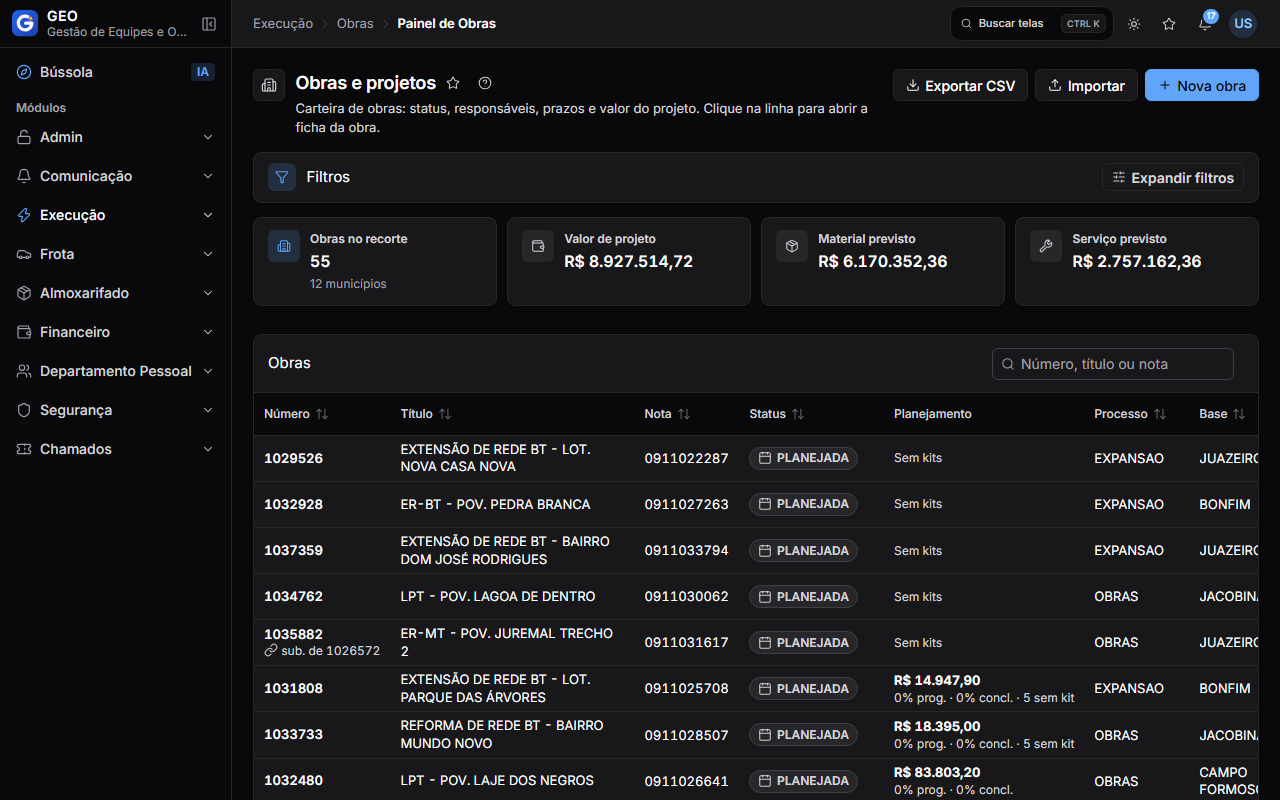
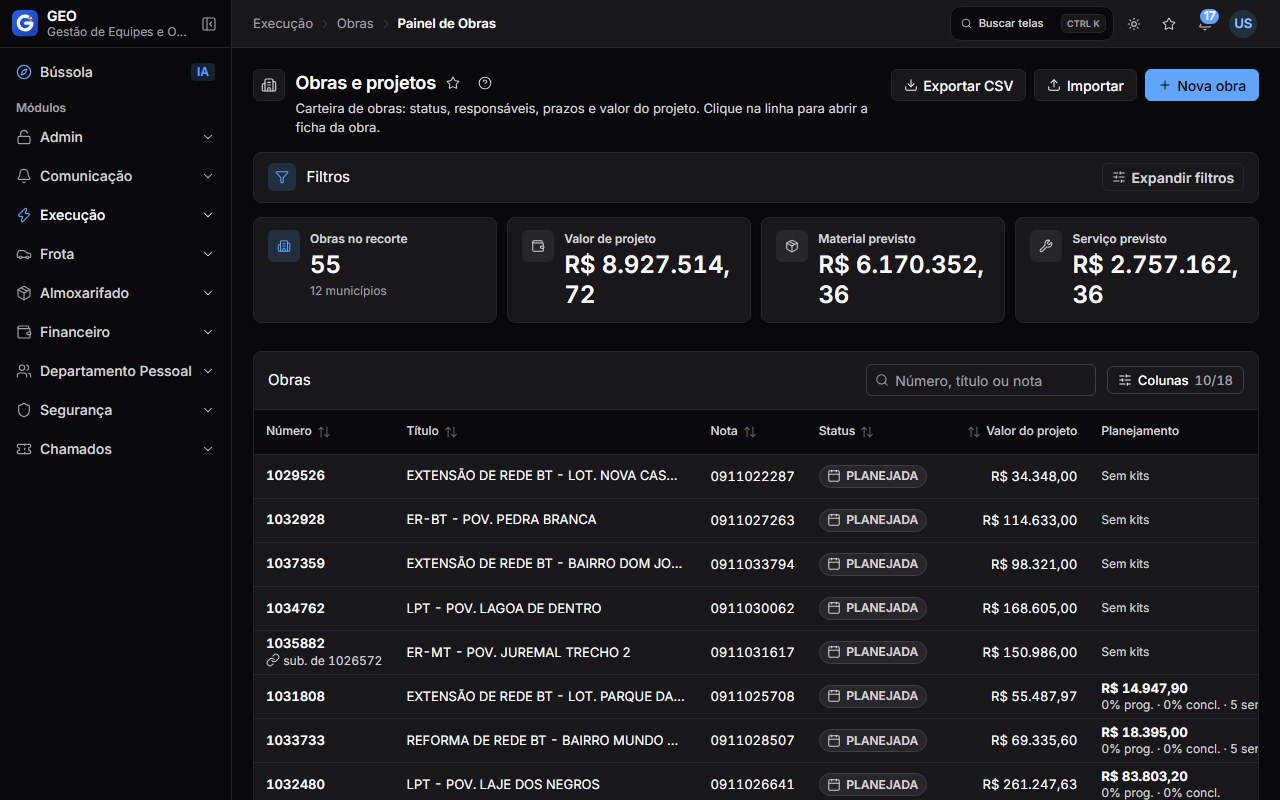
fix(redesign): valor do projeto à vista na carteira, cabeçalho do dashboard em grid e aba ativa neutra no escuro

diff --git a/frontend/src/app/features/obras/lista/obras-lista.component.ts b/frontend/src/app/features/obras/lista/obras-lista.component.ts
@@ -110,7 +110,7 @@ const ISO_PARA_BR = (iso: string | null) => formatarDataParaApi(dataLocal(iso));
     .obra-titulo {
       display: block;
       min-width: 16rem;
-      max-width: 26rem;
+      max-width: 20rem;
       overflow: hidden;
       text-overflow: ellipsis;
       white-space: nowrap;
@@ -488,13 +488,14 @@ export class ObrasListComponent {
 
   /** Carteira larga (18 colunas): texto em uma linha, o resto no title da célula. */
   protected readonly ajusteTexto = { minColumnWidth: '7.5rem', maxLines: 1 } as const;
-  /** Padrão enxuto (10 colunas, com o valor do projeto à vista); o usuário escolhe as demais em "Colunas". */
+  /** Padrão enxuto (10 colunas, valor do projeto logo após o status); o usuário escolhe as demais em "Colunas". */
   protected readonly colunasOcultasPadrao = ['processo', 'centro', 'coordenador', 'tensao', 'prioridade', 'prazoRegulado', 'materialPrevisto', 'servicoPrevisto'];
   protected readonly colunas: GeoDataTableColumn<ObraResumoResponse>[] = [
     { key: 'numero', header: 'Número', type: 'custom', priority: 1, sortField: 'numero', width: '9rem', value: (o) => o.numero, display: (o) => o.numero },
     { key: 'titulo', header: 'Título', type: 'custom', priority: 1, sortField: 'titulo', value: (o) => o.titulo, display: (o) => o.titulo },
     { key: 'nota', header: 'Nota', sortField: 'notaObra', value: (o) => o.notaObra, display: (o) => o.notaObra || '—' },
     { key: 'status', header: 'Status', type: 'custom', priority: 1, sortField: 'status.nome', value: (o) => o.statusNome, display: (o) => o.statusNome },
+    { key: 'valor', header: 'Valor do projeto', type: 'currency', sortField: 'valorProjeto', value: (o) => o.valorProjeto },
     { key: 'planejado', header: 'Planejamento', type: 'custom', width: '12rem', value: (o) => this.resumoDe(o)?.valorTotal },
     { key: 'processo', header: 'Processo', sortField: 'processo.nome', value: (o) => o.processoNome, display: (o) => o.processoNome || '—' },
     { key: 'base', header: 'Base', sortField: 'baseOperacional.nome', value: (o) => o.baseOperacionalNome, display: (o) => o.baseOperacionalNome || '—' },
@@ -503,7 +504,6 @@ export class ObrasListComponent {
     { key: 'supervisor', header: 'Supervisor', sortField: 'supervisor', value: (o) => o.supervisorNome, display: (o) => o.supervisorNome || '—' },
     { key: 'coordenador', header: 'Coordenador', sortField: 'coordenador', value: (o) => o.coordenadorNome, display: (o) => o.coordenadorNome || '—' },
     { key: 'prazo', header: 'Início → previsão', type: 'custom', sortField: 'dataInicio', value: (o) => o.dataInicio, display: (o) => `${o.dataInicio} → ${o.dataPrevisaoFim}` },
-    { key: 'valor', header: 'Valor do projeto', type: 'currency', sortField: 'valorProjeto', value: (o) => o.valorProjeto },
     { key: 'tensao', header: 'Tensão', type: 'custom', sortField: 'classeTensao', width: '7rem', value: (o) => o.carteira?.classeTensao, display: (o) => o.carteira?.classeTensaoRotulo || '—' },
     { key: 'prioridade', header: 'Prioridade', type: 'custom', sortField: 'prioridade', width: '7rem', value: (o) => o.carteira?.prioridade, display: (o) => this.rotuloPrioridade(o.carteira?.prioridade) },
     { key: 'prazoRegulado', header: 'Prazo regulado', sortField: 'prazoRegulado', width: '8rem', value: (o) => o.carteira?.prazoRegulado, display: (o) => o.carteira?.prazoRegulado || '—' },

diff --git a/frontend/src/app/shared/styles/dashboard-shell.css b/frontend/src/app/shared/styles/dashboard-shell.css
@@ -25,11 +25,13 @@
 /* Cabeçalho e painel de filtros do design system no lugar de .dash-header/.dash-filterbar:
    mesmo respiro que os blocos do painel (1.5rem). */
 .dash-shell > geo-page-header,
+.dashboard-container > geo-page-header {
+  margin-bottom: 16px;
+}
 .dash-shell > geo-filter-panel,
-.dashboard-container > geo-page-header,
 .dashboard-container > geo-filter-panel {
   display: block;
-  margin-bottom: 1.5rem;
+  margin-bottom: 16px;
 }
 
 .dash-header {
@@ -529,7 +531,7 @@
 
 .app-dark .dash-tab.is-active {
   background: var(--geo-surface);
-  color: var(--geo-brand);
+  color: var(--geo-foreground);
   box-shadow: var(--geo-shadow-sm);
 }
 
